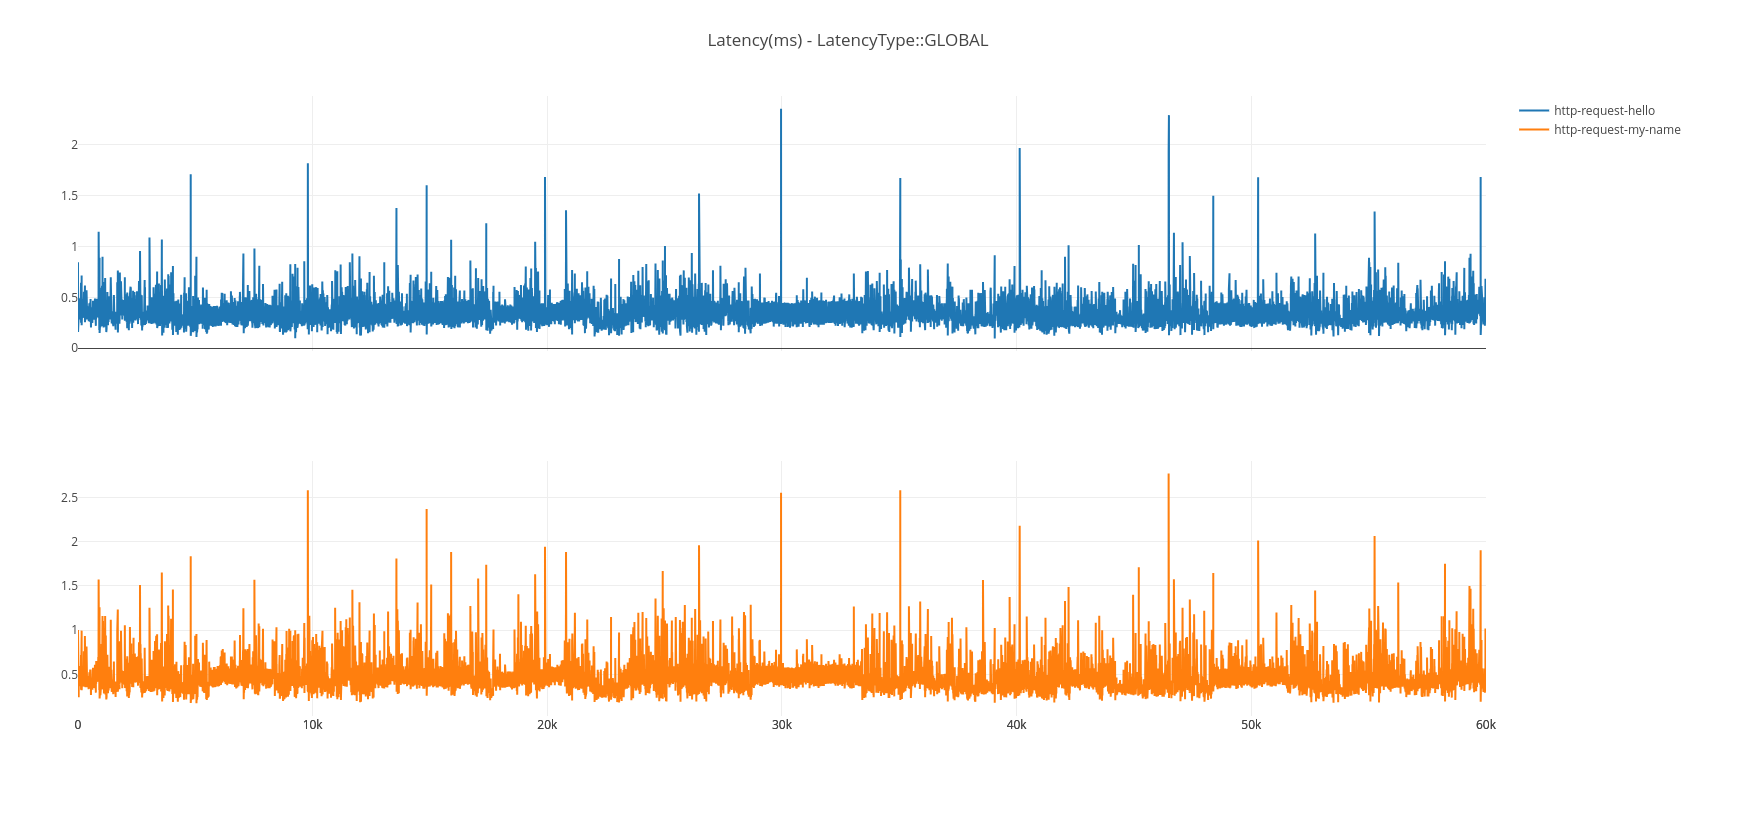
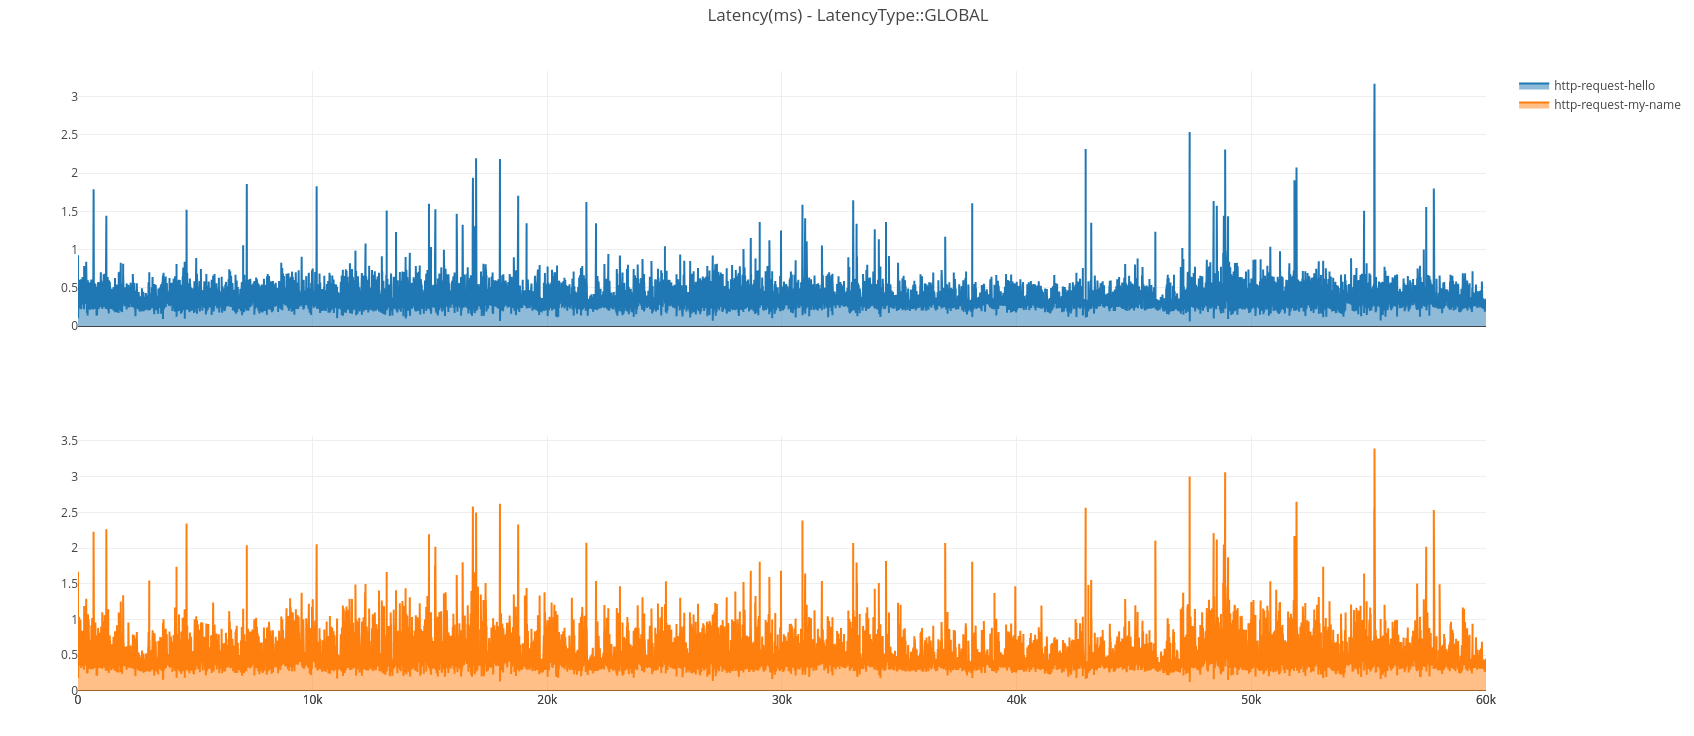
TO_ZERO_Y

diff --git a/core/src/main/java/com/github/yewyc/MeasureLatency.java b/core/src/main/java/com/github/yewyc/MeasureLatency.java
@@ -6,13 +6,13 @@ import tech.tablesaw.plotly.components.Figure;
 import tech.tablesaw.plotly.components.Grid;
 import tech.tablesaw.plotly.components.Layout;
 import tech.tablesaw.plotly.traces.Trace;
-import tech.tablesaw.plotly.traces.TraceBuilder;
 
-import java.lang.reflect.InvocationTargetException;
-import java.lang.reflect.Method;
 import java.util.ArrayList;
 import java.util.List;
-import java.util.concurrent.*;
+import java.util.concurrent.CompletableFuture;
+import java.util.concurrent.LinkedBlockingQueue;
+import java.util.concurrent.ThreadPoolExecutor;
+import java.util.concurrent.TimeUnit;
 import java.util.concurrent.locks.LockSupport;
 
 public class MeasureLatency {
@@ -136,9 +136,7 @@ public class MeasureLatency {
         int i = 1;
         for (Task task : this.tasks) {
             if (task.hasTrackData()) {
-                // xAxis and yAxis diff names are required to have different sub-plots
-                TraceBuilder traceBuilder = task.plot().xAxis("x" + i).yAxis("y" + i);
-                traces.add(build(traceBuilder));
+                traces.add(task.plot(i));
                 i += 1;
             }
         }
@@ -173,17 +171,5 @@ public class MeasureLatency {
                 executor.submit(wrapperTask);
             }
         } // The executor automatically shuts down here
-    }
-
-    private Trace build(TraceBuilder traceBuilder) {
-        Method method;
-        try {
-            method = traceBuilder.getClass().getDeclaredMethod("build");
-            method.setAccessible(true);
-            Trace trace = (Trace) method.invoke(traceBuilder);
-            return trace;
-        } catch (NoSuchMethodException | SecurityException | IllegalAccessException | IllegalArgumentException | InvocationTargetException e) {
-            throw new RuntimeException("Problem invoking the build method", e);
-        }
     }
 }

diff --git a/core/src/main/java/com/github/yewyc/Task.java b/core/src/main/java/com/github/yewyc/Task.java
@@ -3,10 +3,12 @@ package com.github.yewyc;
 import org.HdrHistogram.Histogram;
 import org.jboss.logging.Logger;
 import tech.tablesaw.plotly.traces.ScatterTrace;
-import tech.tablesaw.plotly.traces.TraceBuilder;
+import tech.tablesaw.plotly.traces.Trace;
 
 import java.util.ArrayList;
 import java.util.List;
+
+import static tech.tablesaw.plotly.traces.ScatterTrace.Fill.TO_ZERO_Y;
 
 public class Task {
 
@@ -70,7 +72,7 @@ public class Task {
         System.out.println("\t---");
     }
 
-    public TraceBuilder plot() {
+    public Trace plot(int chartIndex) {
         if (!this.trackData) {
             LOGGER.warn("Cannot plot because trackData is disabled. Set trackData to true in order to plot the data.");
             return null;
@@ -81,6 +83,12 @@ public class Task {
             operations[i] = i + 1;
             latency[i] = this.data.get(i);
         }
-        return ScatterTrace.builder(operations, latency).mode(ScatterTrace.Mode.LINE).name(this.getName());
+        ScatterTrace trace = ScatterTrace.builder(operations, latency)
+                .mode(ScatterTrace.Mode.LINE)
+                .name(this.getName())
+                .xAxis("x" + chartIndex).yAxis("y" + chartIndex)
+                .fill(TO_ZERO_Y)
+                .build();
+        return trace;
     }
 }

diff --git a/README.md b/README.md
@@ -81,7 +81,7 @@ This example uses the [Quarkus Getting Started](https://github.com/quarkusio/qua
    You can run it directly from your IDE or using Maven:
 
    ```bash
-   $ mvn compile exec:java -Dexec.mainClass="com.github.yewyc.javahttpclient.JavaHttpClientExample"
+   $ mvn clean install && mvn compile exec:java -Dexec.mainClass="com.github.yewyc.javahttpclient.JavaHttpClientExample" -pl java-http-client
    ```
 
    This will execute a load test for 60 seconds with 1000 operations per second using 1 virtual thread, targeting the Quarkus application running at `http://localhost:8080`. It will measure GLOBAL latency and generate a report and plot.
